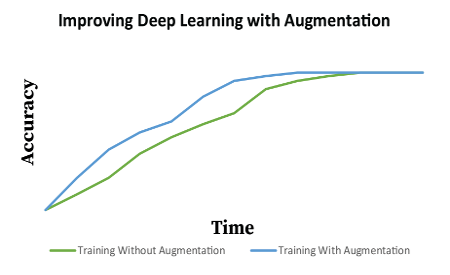
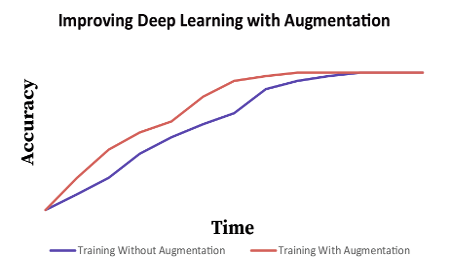
rotate changes (#60)
* changing to optimized augmentations

* rotate change from 135 to 150

* rotate changes

* 135 to 150

* graph color change

* anntest

diff --git a/rali_setup.py b/rali_setup.py
@@ -116,7 +116,7 @@ class DataLoader(RaliGraph):
 		self.validation_dict = {}
 		self.process_validation(image_validation)
 		self.setSeed(0)
-
+		self.aug_strength = 0
 		#params for contrast
 		self.min_param = RaliIntParameter(0)
 		self.max_param = RaliIntParameter(255)
@@ -337,6 +337,7 @@ class DataLoader(RaliGraph):
 
 	def updateAugmentationParameter(self, augmentation):
 		#values for contrast
+		self.aug_strength = augmentation
 		min = int(augmentation*100)
 		max = 150 + int((1-augmentation)*100)
 		self.min_param.update(min)
@@ -363,9 +364,13 @@ class DataLoader(RaliGraph):
 		gamma_shift = augmentation*5.0
 		self.gamma_shift_param.update(gamma_shift)
 
-		#values for rotation
-		degree = augmentation * 180.0
-		self.degree_param.update(degree)
+
+
+	def renew_parameters(self):
+		curr_degree = self.degree_param.get()
+		#values for rotation change
+		degree = self.aug_strength * 100
+		self.degree_param.update(curr_degree+degree)
 
 	def start_iterator(self):
 		self.reset()
@@ -374,6 +379,7 @@ class DataLoader(RaliGraph):
 		if self.getReaminingImageCount() <= 0:
 			#raise StopIteration
 			return -1
+		self.renew_parameters()
 		if self.run() != 0:
 			#raise StopIteration
 			return -1

diff --git a/inference_setup.py b/inference_setup.py
@@ -265,7 +265,7 @@ class modelInference(QtCore.QObject):
 					print("ERROR: Converting NNIR to OpenVX Failed")
 					quit()
 
-		#os.system('(cd '+self.modelBuildDir+'; cmake ../openvx-files; make; ./anntest ../openvx-files/weights.bin )')
+		os.system('(cd '+self.modelBuildDir+'; cmake ../openvx-files; make; ./anntest ../openvx-files/weights.bin )')
 		print("\nSUCCESS: Converting Pre-Trained model to MIVisionX Runtime successful\n")
 
 		# create inference classifier
